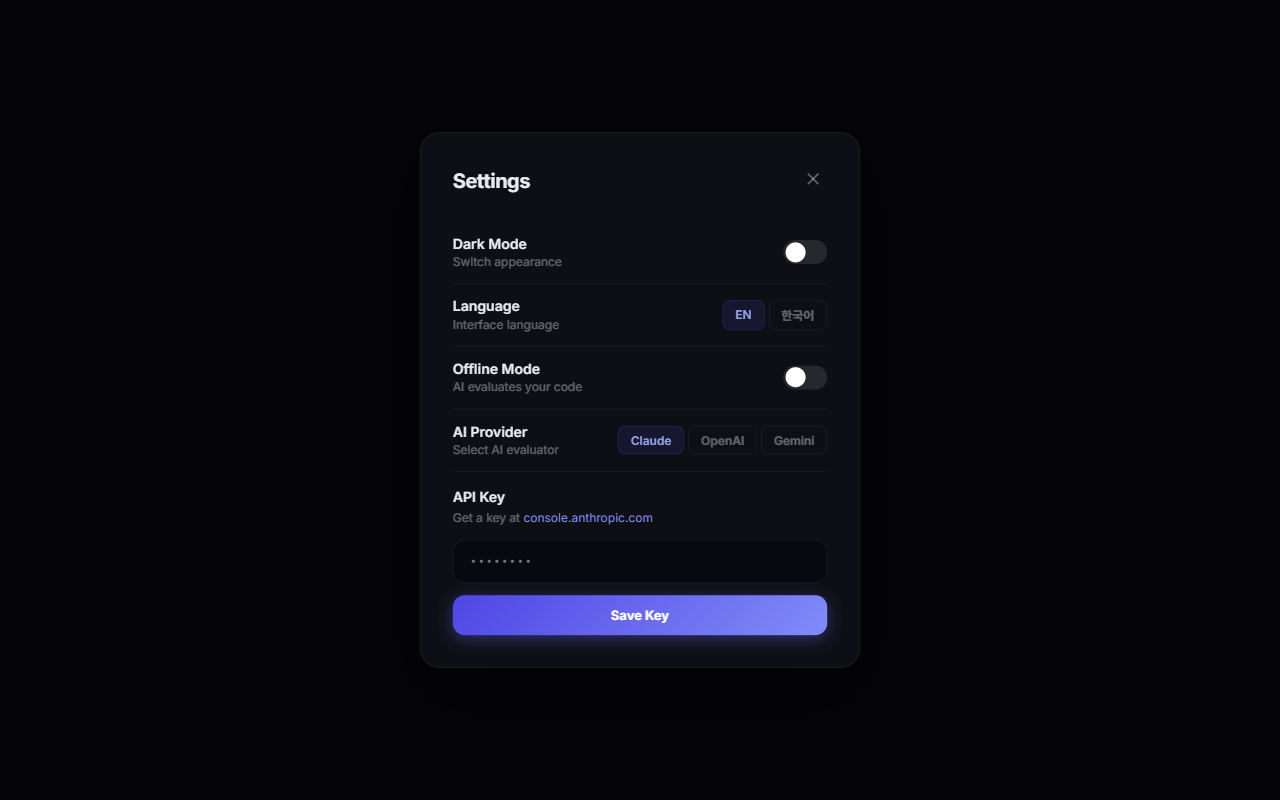
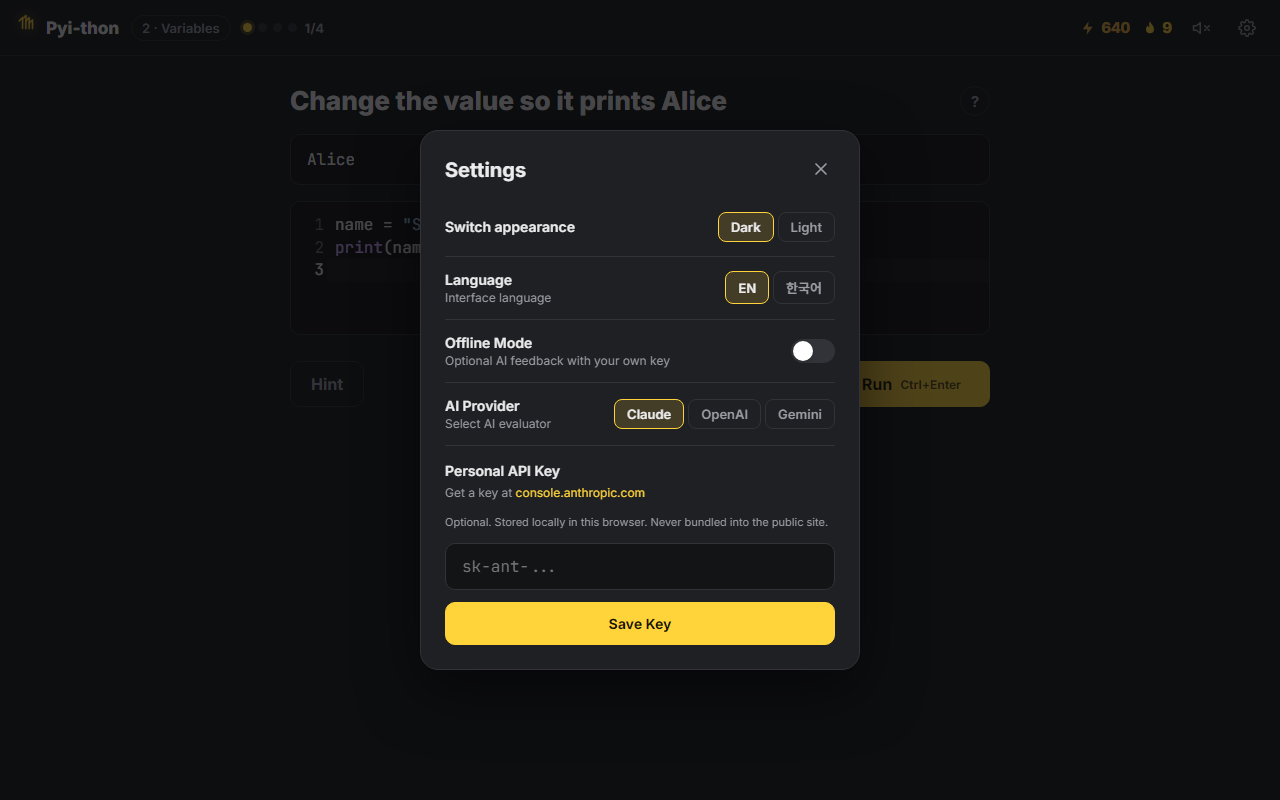
docs: refresh readme for the new look (#28)

diff --git a/README.md b/README.md
@@ -1,21 +1,21 @@
 # Pyi-thon
 
 <p align="center">
-  <strong>Learn Python by writing real code. 30 levels. Zero setup. Completely free.</strong>
+  <strong>Learn Python by writing real code. 30 topics. Zero setup. Completely free.</strong>
 </p>
 
 <p align="center">
-  <a href="https://pyithon.com"><img src="https://img.shields.io/badge/%E2%96%B6%EF%B8%8F_Try_it_live-pyithon.com-6366f1?style=for-the-badge" alt="Try it live" /></a>
+  <a href="https://pyithon.com"><img src="https://img.shields.io/badge/%E2%96%B6%EF%B8%8F_Try_it_live-pyithon.com-ffd43b?style=for-the-badge&labelColor=121214" alt="Try it live" /></a>
 </p>
 
 <p align="center">
-  <a href="https://github.com/aiedwardyi/pyi-thon/actions/workflows/ci.yml"><img src="https://img.shields.io/github/actions/workflow/status/aiedwardyi/pyi-thon/ci.yml?branch=main&label=ci" alt="CI status" /></a>
-  <img src="https://img.shields.io/badge/levels-30-6366f1" alt="30 Levels" />
-  <img src="https://img.shields.io/badge/phases-3-34d399" alt="3 Phases" />
-  <img src="https://img.shields.io/badge/languages-EN%20%7C%20%ED%95%9C%EA%B5%AD%EC%96%B4-38bdf8" alt="EN | Korean" />
-  <img src="https://img.shields.io/badge/AI-Claude%20%7C%20OpenAI%20%7C%20Gemini-f59e0b" alt="Multi-AI" />
-  <img src="https://img.shields.io/badge/offline-Pyodide%20WASM-10b981" alt="Offline Ready" />
-  <img src="https://img.shields.io/badge/license-MIT-blue" alt="MIT License" />
+  <a href="https://github.com/aiedwardyi/pyi-thon/actions/workflows/ci.yml"><img src="https://img.shields.io/github/actions/workflow/status/aiedwardyi/pyi-thon/ci.yml?branch=main&label=ci&labelColor=121214" alt="CI status" /></a>
+  <img src="https://img.shields.io/badge/levels-30-ffd43b?labelColor=121214" alt="30 Levels" />
+  <img src="https://img.shields.io/badge/phases-3-ffd43b?labelColor=121214" alt="3 Phases" />
+  <img src="https://img.shields.io/badge/languages-EN%20%7C%20%ED%95%9C%EA%B5%AD%EC%96%B4-ffd43b?labelColor=121214" alt="EN | Korean" />
+  <img src="https://img.shields.io/badge/AI-Claude%20%7C%20OpenAI%20%7C%20Gemini-ffd43b?labelColor=121214" alt="Optional AI feedback" />
+  <img src="https://img.shields.io/badge/runs%20in%20browser-Pyodide%20WASM-ffd43b?labelColor=121214" alt="Python runs in the browser" />
+  <img src="https://img.shields.io/badge/license-MIT-ffd43b?labelColor=121214" alt="MIT License" />
 </p>
 
 ---
@@ -36,58 +36,58 @@ It is aimed at complete beginners, but it is also friendly to experienced develo
 
 Most Python tutorials make you read. Pyi-thon makes you write.
 
-- No copy-paste - you type every line yourself
+- Short reps - copy, write, change, then fix a bug
 - No autocomplete - you actually learn the syntax
-- Instant feedback - know if you're right in seconds
-- Works offline - Python runs in your browser via WebAssembly
-- Gamified - XP, streaks, confetti, and sound effects keep things moving
+- Instant feedback - a plain one-line tip when you miss
+- Real Python - runs in your browser via WebAssembly
+- Gamified - XP, clean-rep combos, a daily streak, confetti
 - Free and open source - fork it, customize it, self-host it
 
 ## Screenshots
 
 <table>
   <tr>
-    <td align="center"><strong>Code Editor (Dark)</strong></td>
+    <td align="center"><strong>Intro</strong></td>
+    <td align="center"><strong>Win Overlay</strong></td>
+  </tr>
+  <tr>
+    <td><img src="screenshots/welcome.png" width="400" /></td>
+    <td><img src="screenshots/win-overlay.png" width="400" /></td>
+  </tr>
+  <tr>
+    <td align="center"><strong>Fix the Bug</strong></td>
     <td align="center"><strong>Korean + Light Mode</strong></td>
   </tr>
   <tr>
-    <td><img src="screenshots/correct-dark.png" width="400" /></td>
+    <td><img src="screenshots/fix-bug.png" width="400" /></td>
     <td><img src="screenshots/korean-light.png" width="400" /></td>
   </tr>
   <tr>
-    <td align="center"><strong>Level Select</strong></td>
-    <td align="center"><strong>Settings &amp; AI Providers</strong></td>
+    <td align="center"><strong>All Levels</strong></td>
+    <td align="center"><strong>History</strong></td>
   </tr>
   <tr>
     <td><img src="screenshots/levels.png" width="400" /></td>
+    <td><img src="screenshots/history.png" width="400" /></td>
+  </tr>
+  <tr>
+    <td align="center"><strong>Settings &amp; AI Providers</strong></td>
+    <td align="center"><strong>Mobile</strong></td>
+  </tr>
+  <tr>
     <td><img src="screenshots/settings.png" width="400" /></td>
-  </tr>
-  <tr>
-    <td align="center" colspan="2"><strong>Mobile</strong></td>
-  </tr>
-  <tr>
-    <td align="center" colspan="2"><img src="screenshots/mobile.png" width="250" /></td>
+    <td align="center"><img src="screenshots/mobile.png" width="200" /></td>
   </tr>
 </table>
 
 ## Themes
 
-Seven built-in themes, all available from Settings.
+Two themes, Dark and Light, switchable from Settings.
 
 <table>
   <tr>
-    <td align="center"><img src="screenshots/theme-dark.png" width="250" /><br /><img src="https://img.shields.io/badge/-Dark-08090e?style=flat-square&labelColor=08090e" /></td>
-    <td align="center"><img src="screenshots/theme-light.png" width="250" /><br /><img src="https://img.shields.io/badge/-Light-f0f1f5?style=flat-square&labelColor=f0f1f5&color=4f46e5" /></td>
-    <td align="center"><img src="screenshots/theme-tokyo.png" width="250" /><br /><img src="https://img.shields.io/badge/-Tokyo%20Night-1a1b26?style=flat-square&labelColor=1a1b26&color=7aa2f7" /></td>
-  </tr>
-  <tr>
-    <td align="center"><img src="screenshots/theme-love.png" width="250" /><br /><img src="https://img.shields.io/badge/-Love-191724?style=flat-square&labelColor=191724&color=eb6f92" /></td>
-    <td align="center"><img src="screenshots/theme-gruvbox.png" width="250" /><br /><img src="https://img.shields.io/badge/-Gruvbox-1d2021?style=flat-square&labelColor=1d2021&color=fe8019" /></td>
-    <td align="center"><img src="screenshots/theme-catppuccin.png" width="250" /><br /><img src="https://img.shields.io/badge/-Catppuccin-1e1e2e?style=flat-square&labelColor=1e1e2e&color=cba6f7" /></td>
-  </tr>
-  <tr>
-    <td align="center"><img src="screenshots/theme-nord.png" width="250" /><br /><img src="https://img.shields.io/badge/-Nord-2e3440?style=flat-square&labelColor=2e3440&color=88c0d0" /></td>
-    <td align="center" colspan="2"></td>
+    <td align="center"><img src="screenshots/theme-dark.png" width="400" /><br /><img src="https://img.shields.io/badge/-Dark-121214?style=flat-square&labelColor=121214" /></td>
+    <td align="center"><img src="screenshots/theme-light.png" width="400" /><br /><img src="https://img.shields.io/badge/-Light-d1d5db?style=flat-square&labelColor=d1d5db" /></td>
   </tr>
 </table>
 
@@ -95,17 +95,20 @@ Seven built-in themes, all available from Settings.
 
 | Feature | Description |
 |---------|-------------|
-| **30 Progressive Levels** | From `print("Hello")` to data pipelines across 3 phases |
+| **30 Topics** | From `print("Hello")` to data pipelines across 3 phases. Topics unlock in order |
+| **4-Rep Sets** | Topics 1-5 are four short reps: tweak, write, change, fix a bug. Topics 6-30 are one task each |
 | **Real Python in Browser** | Pyodide (WebAssembly) runs actual Python 3 - no server needed |
-| **AI-Powered Evaluation** | Claude, OpenAI, or Gemini analyze your code and accept creative solutions |
-| **Offline Mode** | Works completely offline with Pyodide - no API key required |
-| **Bilingual** | Full English and Korean (한국어) interface and level content |
-| **7 Themes** | Dark, Light, Tokyo Night, Love, Gruvbox, Catppuccin, and Nord |
-| **Gamification** | XP system, streak counter, confetti celebrations, sound effects |
-| **Syntax Highlighting** | Full Python syntax highlighting in the built-in editor |
+| **Plain Tips** | One short tip per miss, in English or Korean, using only words taught so far |
+| **3-Step Hints** | A nudge, then an example, then the answer |
+| **Win Moments** | CLEAN, SOLVED, and DONE overlays with an XP count-up, combo, confetti, and optional sounds |
+| **Daily Streak** | Flame counter in the top bar and a History screen with a 12-week heatmap |
+| **Code Editor** | CodeMirror 6 with Python highlighting. Auto-indents after a colon, including on phones |
+| **Bring Your Own AI Key** | Optional Claude, OpenAI, or Gemini feedback after a miss. Local feedback is the fallback |
+| **Bilingual** | Full English and Korean (한국어) interface and lesson content |
+| **2 Themes** | Dark and Light, with a Python yellow accent |
 | **Progress Saving** | Auto-saves to localStorage - close the tab, come back later |
-| **Responsive** | Side-by-side on desktop, tabbed layout on mobile |
-| **Zero Dependencies** | React + Vite only. No state library, no CSS framework, no bloat |
+| **Responsive** | Single-column layout that works on desktop and phones |
+| **Light Dependencies** | React, Vite, and CodeMirror. No state library, no CSS framework |
 
 ## Quick Start
 
@@ -118,9 +121,9 @@ npm run dev
 
 Open the local app at `http://localhost:3000`.
 
-### AI Evaluation (Optional)
+### AI Feedback (Optional)
 
-Pyi-thon works fully offline out of the box. For smarter AI-powered evaluation, add any one of these:
+Pyi-thon works without a key. For extra feedback after a miss, add any one of these:
 
 | Provider | Get a key | Model used |
 |----------|-----------|------------|
@@ -128,49 +131,53 @@ Pyi-thon works fully offline out of the box. For smarter AI-powered evaluation, 
 | **OpenAI** | [platform.openai.com](https://platform.openai.com) | GPT-4o Mini |
 | **Google Gemini** | [aistudio.google.com](https://aistudio.google.com) | Gemini 2.0 Flash |
 
-Enter your key in the Settings panel. For public or static deployments, do not put provider secrets into Vite env vars, because `VITE_*` values are embedded into the client bundle.
+Enter your key in the Settings panel. The key stays in your browser. For public or static deployments, do not put provider secrets into Vite env vars, because `VITE_*` values are embedded into the client bundle.
 
 If you need shared credentials, route AI requests through a server-side proxy instead.
 
-## The 30 Levels
+## The 30 Topics
 
-| Phase | Levels | What You Learn |
+| Phase | Topics | What You Learn |
 |-------|--------|---------------|
-| **01 - Foundations** | 1-18 | print, variables, strings, input, if/else, loops, functions, lists, dicts |
+| **01 - Foundations** | 1-18 | print, variables, joining text, input, if/else, loops, functions, lists, dicts |
 | **02 - Real Skills** | 19-25 | mini apps, file I/O, error handling, classes, JSON, imports |
 | **03 - Beyond** | 26-30 | list comprehensions, string methods, f-strings, lambda/map, data pipelines |
 
-Each level has a concept explanation, a task, a built-in hint, starter code, and a detailed explanation after you solve it.
+Each topic opens with a see card: a short rule, an example, and what it prints. Then you write code, with hints on hand.
 
 ## How It Works
 
 ```
-You write Python  ->  Submit  ->  AI or Pyodide evaluates  ->  Feedback + XP
+See card  ->  Write code  ->  Run  ->  Pyodide checks the output  ->  Tip or win + XP
 ```
 
-Offline mode runs your code through Pyodide and checks the output against expected results. It also verifies you used the right concept, so hardcoded answers do not pass.
+Your code runs in a fresh Pyodide namespace with a loop guard. The output is checked line by line against the expected result. Each rep can also require or forbid a concept, so hardcoded answers do not pass.
 
-For lessons that teach `input()`, offline checks use built-in sample inputs shown in the lesson UI and result panel so the expected output stays reproducible on mobile and desktop.
+XP is 20 per rep, +10 for a first try, and 50 for finishing a set. Clean reps in a row build a combo. The first rep of each day starts or extends your streak.
+
+For topics that teach `input()`, the lesson types sample inputs for you so the expected output stays reproducible on mobile and desktop.
+
+With an AI key saved, a miss also gets feedback from your chosen provider. Without one, local feedback covers it.
 
 The URL-driven QA/debug mode is limited to local and dev environments so shared production links cannot auto-run test payloads.
-
-AI mode sends your code to your chosen provider for nuanced evaluation. It accepts creative solutions, different variable names, and alternative approaches, as long as you use the concept being taught.
 
 ## Project Structure
 
 ```
 pyi-thon/
-├── index.html          # Entry point + font imports
+├── index.html          # Entry point, font imports, Pyodide script
 ├── package.json        # Scripts and dependencies
 ├── vite.config.js      # Dev server config
 ├── .env.example        # Notes about keeping provider keys out of public builds
+├── public/             # Icons, manifest, share image
+├── test/               # Unit tests and Playwright e2e specs
 └── src/
     ├── main.jsx        # React mount point
-    ├── App.jsx         # Application orchestration and lesson flow
-    ├── components/     # Focused UI panels and screens
-    ├── data/           # App strings, provider config, and level content
-    ├── lib/            # Storage and AI evaluation helpers
-    └── theme/          # Theme palettes and shared global styles
+    ├── App.jsx         # Application orchestration and rep flow
+    ├── components/     # Intro, rep screen, editor, win overlay, levels, history, settings
+    ├── data/           # App strings, provider config, and topic content
+    ├── lib/            # Python runner, feedback checker, progress, streak, storage, AI helpers
+    └── theme/          # Theme palettes, intro styles, and shared global styles
 ```
 
 The app stays intentionally lightweight while keeping obvious responsibilities separated so the source is easier to review.
@@ -181,12 +188,14 @@ The app stays intentionally lightweight while keeping obvious responsibilities s
 |-----------|---------|
 | **React 18** | UI rendering |
 | **Vite 5** | Dev server, build |
+| **CodeMirror 6** | Code editor |
 | **Pyodide** | Python 3 in the browser (WebAssembly) |
-| **Claude / OpenAI / Gemini** | AI code evaluation |
+| **Claude / OpenAI / Gemini** | Optional AI feedback |
+| **Playwright** | End-to-end tests |
 | **Web Audio API** | Sound effects |
 | **localStorage** | Progress + preferences |
 
-No other dependencies. No state management library. No CSS framework. No component library. Just React and Vite.
+No state management library. No CSS framework. No component library.
 
 ## Quality And Releases
 
@@ -220,11 +229,11 @@ Pyi-thon is a static site - deploy it anywhere:
 npm run build    # Outputs to dist/
 ```
 
-Works with **Vercel**, **Netlify**, **AWS Amplify**, **GitHub Pages**, **Cloudflare Pages**, or any static host. The Pyodide runtime loads from CDN at runtime. Bring-your-own-key AI evaluation works directly from the browser; shared provider credentials should live behind a server-side proxy, not in the public bundle.
+Works with **Vercel**, **Netlify**, **AWS Amplify**, **GitHub Pages**, **Cloudflare Pages**, or any static host. The Pyodide runtime loads from CDN at runtime. Bring-your-own-key AI feedback works directly from the browser; shared provider credentials should live behind a server-side proxy, not in the public bundle.
 
 ## Contributing
 
-Contributions are welcome. Whether you are fixing a bug, adding a level, improving translations, or polishing the UI, the project benefits from clear, well-scoped work.
+Contributions are welcome. Whether you are fixing a bug, adding a topic, improving translations, or polishing the UI, the project benefits from clear, well-scoped work.
 
 See [CONTRIBUTING.md](CONTRIBUTING.md) for the contributor guide and the quality bar we use for pull requests.
 
@@ -232,11 +241,11 @@ If you enjoy the app, a star on GitHub helps other programmers discover it.
 
 ### Ideas
 
-- More levels - Phase 3 has room to grow (regex, decorators, generators, async)
+- More topics - Phase 3 has room to grow (regex, decorators, generators, async)
 - More languages - Japanese, Spanish, Chinese, etc.
 - More AI providers - Mistral, Groq, local models via Ollama
 - Accessibility - screen reader improvements, keyboard navigation
-- Challenge mode - timed levels, leaderboards
+- Challenge mode - timed reps, leaderboards
 - Progress export - share your progress, import on another device
 
 ## License
